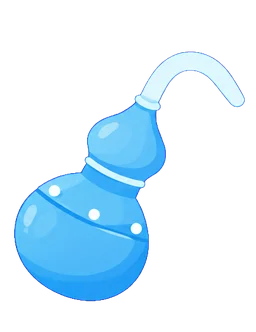
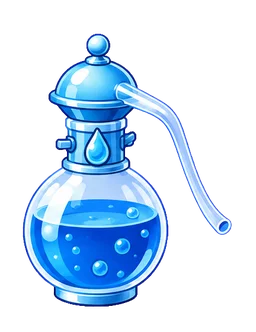
Dev v0.13.4: skilling window — the alembic is a still, only the picture is scaled
The alchemy tools (8 tiers) are redrawn as handheld glass stills — a round flask, a still head and a spout angling
down to the right — instead of gourd-shaped bottles; they are held by the neck under the head (build-assets finds
the narrowest row around the middle). Scaling the window now scales the picture only: the title bar, buttons,
progress text, bonus lines and test panel keep their size (the picture is laid out 340x150 inside a view that
takes the window's width; shakes move the view). Release copy unchanged.

diff --git a/mwi-battle-fx.user.js b/mwi-battle-fx.user.js
@@ -1,7 +1,7 @@
 // ==UserScript==
 // @name         MWI 战斗动画
 // @namespace    mwi-battle-fx
-// @version      0.13.3
+// @version      0.13.4
 // @license      MIT
 // @description  银河奶牛放置：在战斗页"交战"旁加一个"舞台"标签，用杀戮尖塔式的侧视画面播放战斗（AI 生成的角色/怪物立绘与地点背景，攻击、弹道、受击、阵亡）。只在打开该标签时运行；不改游戏原有界面，只读游戏消息；立绘从素材 CDN 加载。
 // @match        https://www.milkywayidle.com/*
@@ -2984,7 +2984,7 @@
       st.id = "bfxl-css"
       st.textContent = `
 .bfxl{position:fixed;z-index:1100;width:340px;border-radius:10px;overflow:hidden;background:#1b2033;color:#eee;
-  box-shadow:0 6px 24px #0008;font:12px/1.3 sans-serif;transform-origin:0 0;user-select:none}
+  box-shadow:0 6px 24px #0008;font:12px/1.3 sans-serif;user-select:none}
 .bfxl-grip{position:absolute;right:0;bottom:0;width:14px;height:14px;cursor:nwse-resize;z-index:5;background:linear-gradient(135deg,transparent 50%,#8a93b8 50%,#8a93b8 60%,transparent 60%,transparent 72%,#8a93b8 72%,#8a93b8 82%,transparent 82%)}
 .bfxl.icon .bfxl-grip{display:none}
 .bfxl-head{display:flex;align-items:center;gap:6px;padding:4px 6px 4px 9px;background:#262d47;cursor:move}
@@ -2992,8 +2992,9 @@
 .bfxl-count{opacity:.75;white-space:nowrap}
 .bfxl-head button{background:none;border:0;color:#ccd;cursor:pointer;font-size:14px;line-height:1;padding:0 3px}
 .bfxl-head button:hover{color:#fff}
-.bfxl.min .bfxl-scene,.bfxl.min .bfxl-bar{display:none}
-.bfxl-scene{position:relative;height:150px;overflow:hidden}
+.bfxl.min .bfxl-view,.bfxl.min .bfxl-bar{display:none}
+.bfxl-view{position:relative;overflow:hidden;height:150px}
+.bfxl-scene{position:relative;width:340px;height:150px;overflow:hidden;transform-origin:0 0}
 .bfxl-scene svg{position:absolute;overflow:visible}
 .bfxl-hero{position:absolute;left:62px;bottom:10px;width:96px;height:96px}
 .bfxl-hero>svg{left:0;top:0;width:100%;height:100%}
@@ -3080,7 +3081,7 @@
 .bfxl-ico{display:none;width:46px;height:46px;border-radius:50%;cursor:pointer;position:relative;box-shadow:0 3px 10px #0008}
 .bfxl-ico svg{position:absolute;left:7px;top:7px;width:32px;height:32px;border-radius:50%;background:#1b2033}
 .bfxl.icon{width:46px;border-radius:50%;background:none;box-shadow:none;overflow:visible}
-.bfxl.icon .bfxl-head,.bfxl.icon .bfxl-scene,.bfxl.icon .bfxl-bar,.bfxl.icon .bfxl-lab{display:none}
+.bfxl.icon .bfxl-head,.bfxl.icon .bfxl-view,.bfxl.icon .bfxl-bar,.bfxl.icon .bfxl-lab{display:none}
 .bfxl.icon .bfxl-ico{display:block}
 .bfxl-lab{background:#20263c;padding:6px 8px;display:flex;flex-wrap:wrap;gap:4px;align-items:center;font-size:11px}
 .bfxl-lab select{background:#141828;color:#ddd;border:1px solid #445;border-radius:3px;font-size:11px;max-width:120px}
@@ -3101,7 +3102,7 @@
       injectCss()
       el = document.createElement("div")
       el.className = "bfxl"
-      el.innerHTML = `<div class="bfxl-head"><span class="bfxl-name"></span><span class="bfxl-count"></span><button class="bfxl-info-btn" title="${L("加成信息", "Bonuses")}">ⓘ</button><button class="bfxl-size" title="${L("大小", "Size")}">⤢</button><button class="bfxl-min" title="${L("折叠", "Collapse")}">–</button><button class="bfxl-x" title="${L("关闭（菜单里可重新打开）", "Close (reopen from the menu)")}">×</button></div><div class="bfxl-scene"><div class="bfxl-store"></div><div class="bfxl-table"></div><div class="bfxl-target"></div><div class="bfxl-hero"></div><div class="bfxl-fx"></div></div><div class="bfxl-bar"><i></i><span></span></div><div class="bfxl-info"></div><div class="bfxl-ico"></div>`
+      el.innerHTML = `<div class="bfxl-head"><span class="bfxl-name"></span><span class="bfxl-count"></span><button class="bfxl-info-btn" title="${L("加成信息", "Bonuses")}">ⓘ</button><button class="bfxl-size" title="${L("大小", "Size")}">⤢</button><button class="bfxl-min" title="${L("折叠", "Collapse")}">–</button><button class="bfxl-x" title="${L("关闭（菜单里可重新打开）", "Close (reopen from the menu)")}">×</button></div><div class="bfxl-view"><div class="bfxl-scene"><div class="bfxl-store"></div><div class="bfxl-table"></div><div class="bfxl-target"></div><div class="bfxl-hero"></div><div class="bfxl-fx"></div></div></div><div class="bfxl-bar"><i></i><span></span></div><div class="bfxl-info"></div><div class="bfxl-ico"></div>`
       document.body.appendChild(el)
       const $ = s => el.querySelector(s)
       // × shrinks the window to a round icon (the skill + a progress ring); a click on it opens it again
@@ -3234,12 +3235,15 @@
     // the window's scale: its share of the screen's width over the 340 px it is laid out in
     const winScale = () => (Math.min(0.5, Math.max(0.12, cfg.lifeW || 0.2)) * innerWidth) / 340
     // keeps the window on screen; dragged spots are kept, double-clicking the title bar goes back to the default
+    // only the picture is scaled: the title bar, bars, bonus lines and buttons keep their size
     function place() {
       if (!el) return
-      const s = cfg.lifeIcon ? Math.min(1.2, winScale()) : winScale()
-      el.style.transform = `scale(${s})`
-      const w = (cfg.lifeIcon ? 46 : 340) * s
-      const h = el.offsetHeight * s
+      const s = winScale()
+      el.style.width = cfg.lifeIcon ? "" : 340 * s + "px"
+      el.querySelector(".bfxl-view").style.height = 150 * s + "px"
+      el.querySelector(".bfxl-scene").style.transform = `scale(${s})`
+      const w = cfg.lifeIcon ? 46 : 340 * s
+      const h = el.offsetHeight
       const [x, y] = cfg.lifePos || defaultPos(w, h)
       el.style.left = Math.max(0, Math.min(innerWidth - w, x)) + "px"
       el.style.top = Math.max(0, Math.min(innerHeight - Math.min(h, 40), y)) + "px"
@@ -4249,7 +4253,7 @@
       return b
     }
     function shake(px, ms) {
-      el.querySelector(".bfxl-scene").animate(
+      el.querySelector(".bfxl-view").animate(
         [0, 1, 2, 3, 4, 5].map(i => ({ transform: i === 5 ? "none" : `translate(${(i % 2 ? -1 : 1) * px * (1 - i / 5)}px,${(i % 3 - 1) * px * 0.6}px)` })),
         { duration: ms },
       )

diff --git a/tools/build-assets.py b/tools/build-assets.py
@@ -445,7 +445,7 @@ def tool_geo(path, kind):
     """Where a drawn tool is held: [grip x, grip y (0..1 of the frame), direction from the grip to the tool's mass in
     degrees (screen coords, y down), reach from the grip (0..1 of the frame width)]. Most tools were drawn with the
     handle's end at the bottom left: the grip is a bit up the handle from it. The teapot is held by its side handle
-    (its leftmost part), the alembic by its neck (its top)."""
+    (its leftmost part), the alembic (a still) by the neck under its head."""
     a = np.asarray(Image.open(path).convert("RGBA"))[..., 3] > 128
     h, w = a.shape
     ys, xs = np.nonzero(a)
@@ -456,9 +456,15 @@ def tool_geo(path, kind):
         band = xs <= xs.min() + (xs.max() - xs.min()) * 0.08
         gx, gy = xs[band].mean(), ys[band].mean()
     elif kind == "alembic":
-        # the top of the flask's neck: the highest part above its middle (the tube curls off to a side)
-        col = np.abs(xs - cx) < w * 0.06
-        gx, gy = cx, ys[col].min() + (ys.max() - ys.min()) * 0.05
+        # the neck between the flask and the still head: the narrowest row in the upper part, counting only the
+        # columns around the middle (the spout reaches off to the right)
+        top, bot = ys.min(), ys.max()
+        x0, x1 = int(cx - w * 0.2), int(cx + w * 0.2)
+        rows = range(int(top + (bot - top) * 0.15), int(top + (bot - top) * 0.6))
+        widths = [(a[y, x0:x1].sum(), y) for y in rows]
+        _, gy = min(widths)
+        xs_row = np.nonzero(a[gy, x0:x1])[0]
+        gx = x0 + xs_row.mean() if len(xs_row) else cx
     else:
         i = np.argmax(ys - xs)
         ex, ey = xs[i], ys[i]

diff --git a/tools/make-life-jobs.py b/tools/make-life-jobs.py
@@ -82,7 +82,7 @@ TOOLS = {
     "needle": "a big sewing needle",
     "spatula": "a cooking spatula",
     "pot": "a brewing teapot exactly like the attached icons (one side handle, a lid, a spout), with no other handle",
-    "alembic": "an alchemy alembic flask",
+    "alembic": "a small handheld glass alembic, a distillation still (NOT a gourd or a bottle): a round-bottomed glass flask holding coloured liquid, topped by a domed still head from which a long thin glass spout angles down to the RIGHT, with metal fittings (as in the attached icons, which show a still and its spout)",
     "enhancer": "an enhancing tool (as in the attached icons)",
 }
 
@@ -184,7 +184,7 @@ groups["lg_stations"] = {"grid": [4, 2], "dir": "station", "ids": [s for s, _ in
 HELD = "drawn as held in a hand, seen from the side: the handle toward the BOTTOM-LEFT of its cell and the working end toward the TOP-RIGHT, tilted 45 degrees, all eight at the same size and the same angle, the end of the handle at the same spot in every cell"
 HELD_KIND = {
     "pot": "standing upright in side view with its spout pointing to the RIGHT and its single handle on the LEFT, all eight at the same size",
-    "alembic": "standing upright in side view, all eight at the same size",
+    "alembic": "standing upright in side view with its spout pointing down to the RIGHT, the tier shown by the colours of its metal fittings and liquid, all eight at the same size",
 }
 for kind, desc in TOOLS.items():
     cells = [f"the {t} tier (attached icon {k + 1})" for k, t in enumerate(TIERS)]
